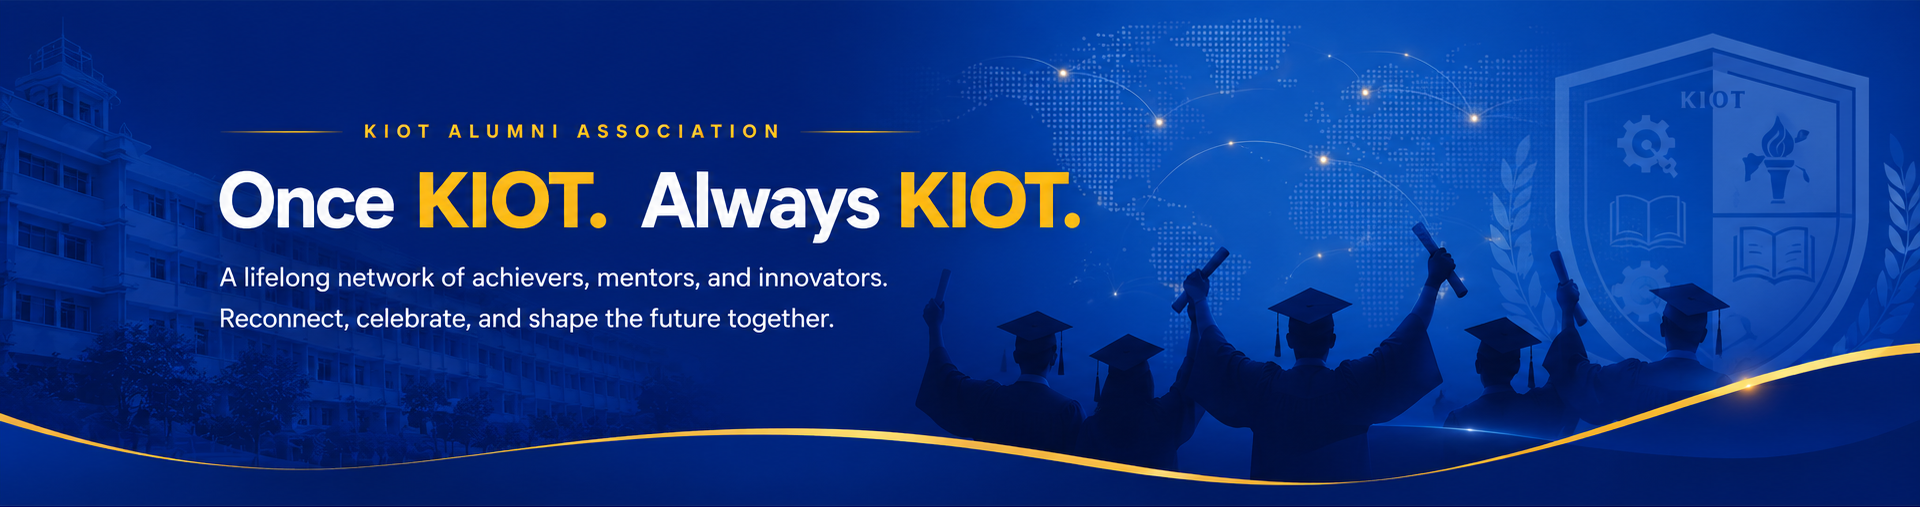
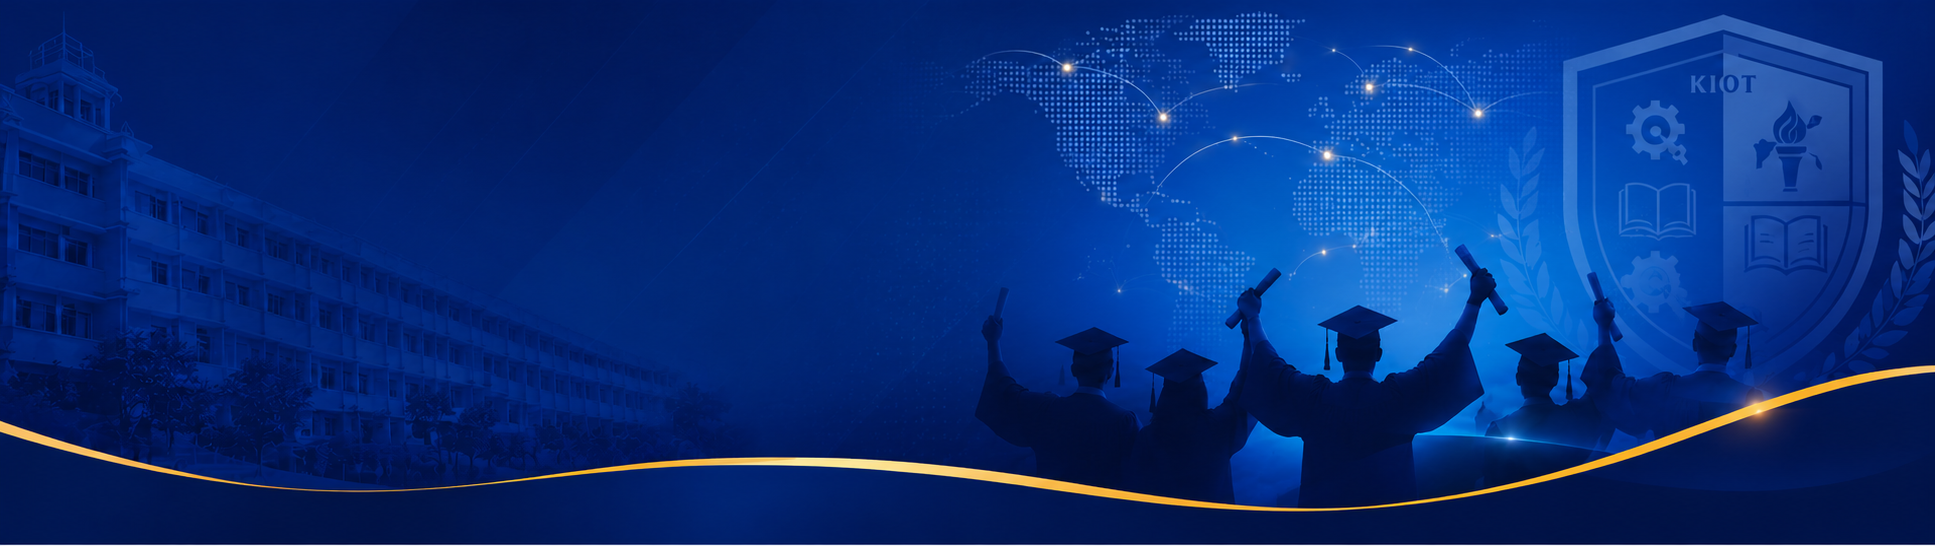
style: reduce alumni hero height for a more compact design

diff --git a/src/components/Alumni/AlumniHero.jsx b/src/components/Alumni/AlumniHero.jsx
@@ -4,7 +4,7 @@ import alumniTech from '../../assets/alumni/alu.png'
 
 const AlumniHero = () => {
   return (
-    <section className="relative w-full h-[350px] md:h-[400px] lg:h-[500px] overflow-hidden">
+    <section className="relative w-full h-[280px] md:h-[350px] lg:h-[400px] overflow-hidden">
       <motion.img 
         initial={{ opacity: 0, scale: 1.05 }}
         animate={{ opacity: 1, scale: 1 }}
